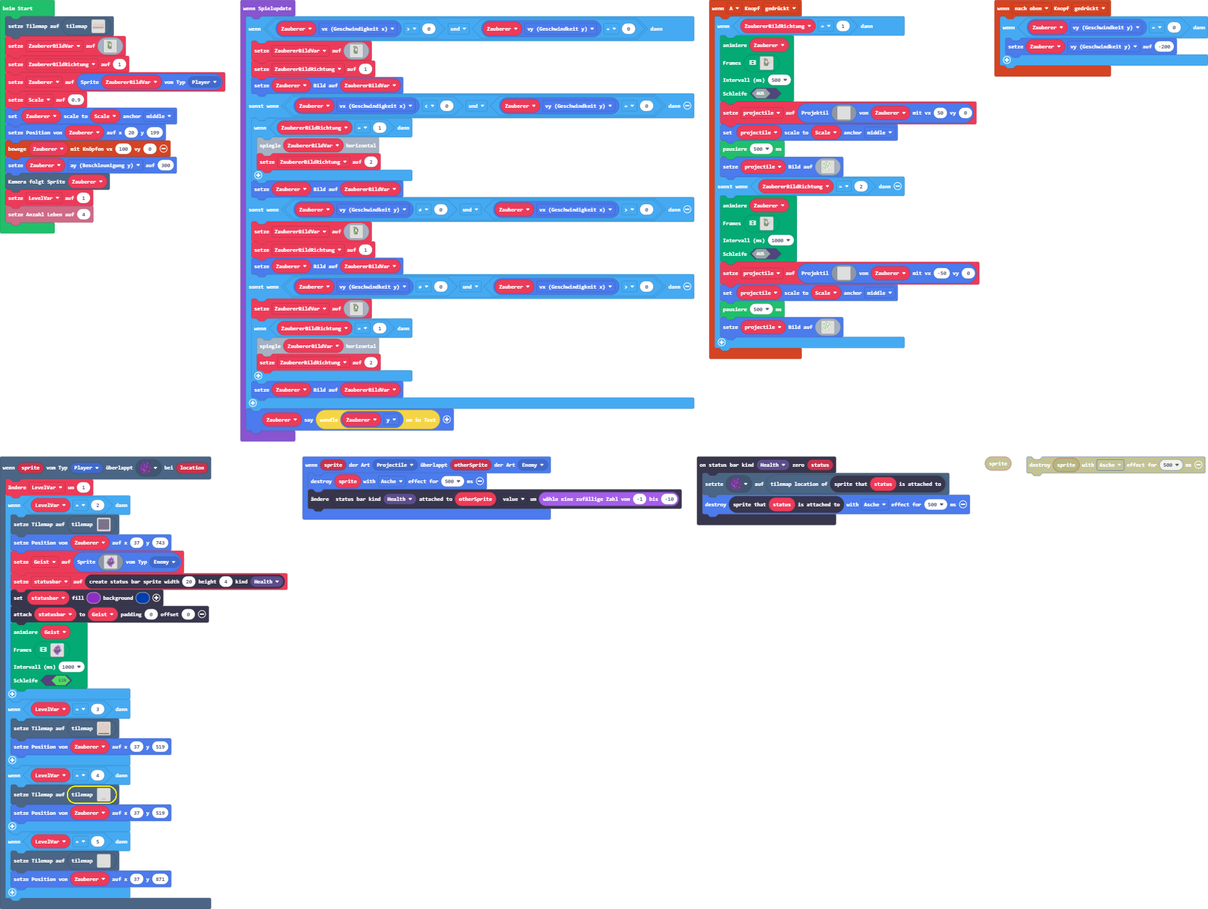
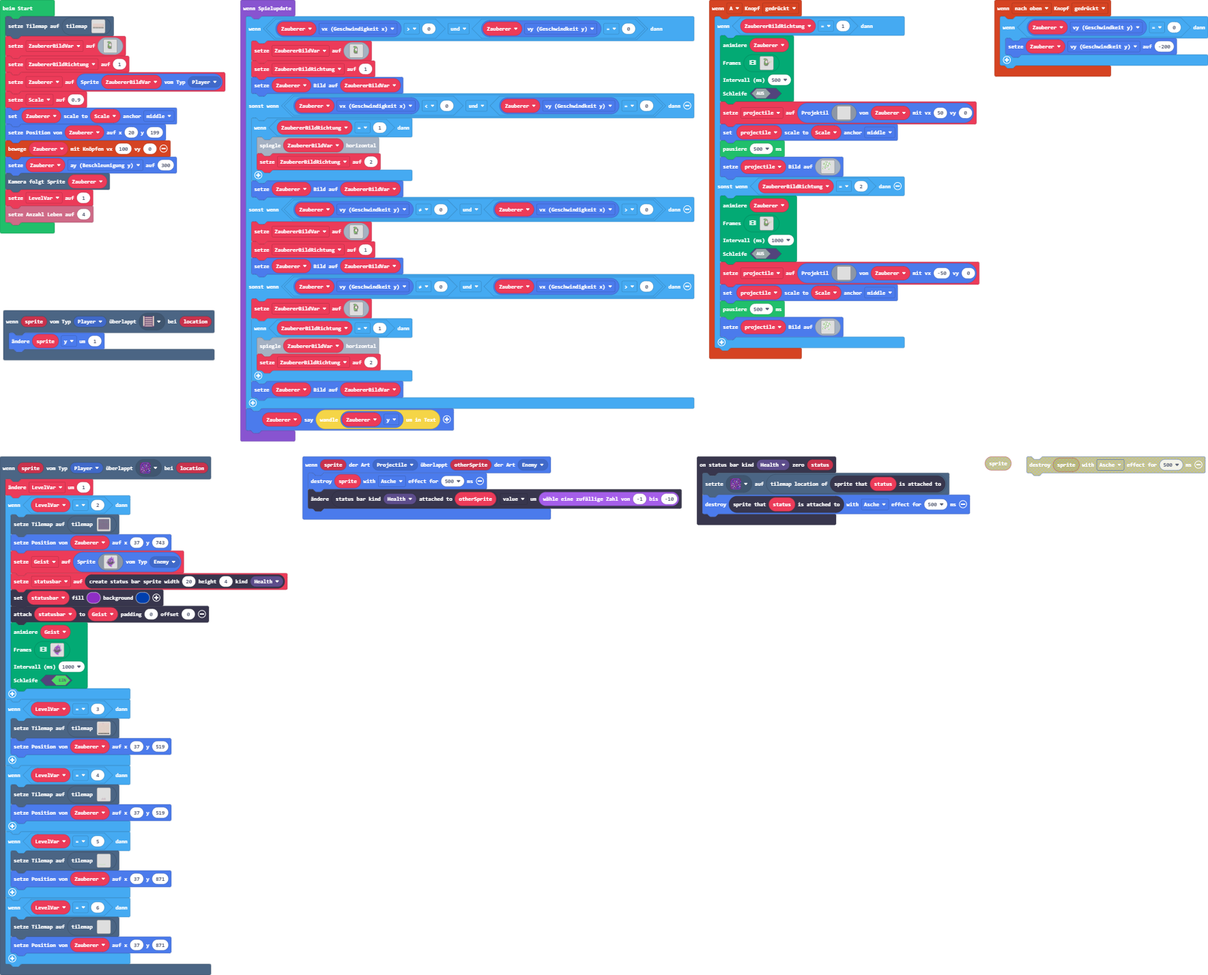
Aktualisiere main.blocks, main.ts, images.g.jres, images.g.ts, tilemap.g.jres, tilemap.g.ts

Changed region(s): [[0.0, 0.0, 1.0, 0.985], [0.8079, 0.0, 1.0, 0.0923]]

diff --git a/tilemap.g.ts b/tilemap.g.ts
@@ -6,66 +6,13 @@ namespace myTiles {
     export const tile1 = image.ofBuffer(hex``);
     //% fixedInstance jres blockIdentity=images._tile
     export const tile2 = image.ofBuffer(hex``);
+    //% fixedInstance jres blockIdentity=images._tile
+    export const tile4 = image.ofBuffer(hex``);
+    //% fixedInstance jres blockIdentity=images._tile
+    export const tile3 = image.ofBuffer(hex``);
 
     helpers._registerFactory("tilemap", function(name: string) {
         switch(helpers.stringTrim(name)) {
-            case "Level1Tilemap":
-            case "Level2Tilemap1":return tiles.createTilemap(hex`24001000010101010101010101010101010101010101010101010101010101010101010101010101010101010101010101010101010101010101010101010101010101010101010101010101010101010101010101010101010101010101010101010101010101010101010101010101010101010101010101010101010101010101010101010101010101010101010101010101010101010101010101010101010101010101010101010101010101010101010101050106010101010101010101040101010505050401010101010101010101010101010101050106010101010101010101010101010101010101010101010501050101010404040404040404010101010101010101010101010101010101010101010101010101010101010101010101010101010101010101010101010101010101010101010101010101010101010101010101010101010404010101010101010101010101010101010101010101010101010101010101010101010104040101010101010101010101010101010101010101010101010101010101010101010101010101010101010101010101010101010101010101010101010101010101030303030303030303030303030303030303030303030303030303030303030303030301020202020202020202020202020202020202020202020202020202020202020202020201010101010101010101010101010101010101010101010101010101010101010101010101010101010101010101010101010101010101010101010101010101010101010101010101`, img`
-....................................
-....................................
-....................................
-....................................
-.................................2..
-.........2...2222................2..
-......................2.2...2....222
-....................................
-....................................
-....22..............................
-.....22.............................
-....................................
-....................................
-22222222222222222222222222222222222.
-....................................
-....................................
-`, [myTiles.transparency16,sprites.castle.tilePath5,sprites.builtin.forestTiles10,sprites.castle.tilePath8,sprites.castle.tilePath2,myTiles.tile1,myTiles.tile2], TileScale.Sixteen);
-            case "Level2Tilemap":
-            case "Level2":return tiles.createTilemap(hex`2300230001010101010101010101010101010101010101010101010101010101010101010101010101010101010101010101010101010301010101010101010101010101010101010101010101010101010101010101010101030101010101010101010101010101010101010101010101010101010101010101010101010101010101010101010101010101010101010101010101010101010101010101010101010101010101010101010101010101010101010101010101010101010101010101010101010101010101010101010101010101010101010101010101010101010101010101010101010101010101010101010101010101010101010101010101010101010101010101010101010101010101010101010101010101010101010101010101010101010101010101010101010101010101010101010101010102020202010101020202020202020202020202020202020202020202020202020202020101010101010101010101010101010101010101010101010101010101010101010101010101010101010101010101010101010101010101010101010101010101010101010101010101010101010101010101010101010101010101010101010101010101010101010202020202020202020202020201010101010202020202020202020202020202020202010101010101010101010101010101010202010101010101010101010101010101010101010101010101010101010101010102010101010101010101010101010101010101010101010101010101010101010101010101010101010101010101010101010101010101010101010101010101010101010101010101010101010101010101010101010101010102020202020202020202020202010101010202020202020202020202020202020202020101010101010101010101010102010101010101010101010101010101010101010101010101010101010101010101010101010101010101010101010101010101010101010101010101010101010101010101010101010101010101010101010101010101010101010202020202020202020202020202020202010101010101010101010101010101010101010101010101010101010101010101010102020202020202020202010101010202020201010101010101010101010101010101010101010101010101010102020101010101010101010101010101010101010101010101010101010101010101010101010101010101010101010101010101010101010101010101010101010101010101010101010101010101010101010101010101010101010101010101010101010101010101010101010101010101010101010101010101010101010101010101010101010101020202020202020202010101010101010101010202020202020202020202020202020201010101010101010101010102020202020202010101010101010101010101010101010101010101010101010101010101010101010101010101010101010101010101010101010101010101010101040404040404040404040404040404040404040404040404040404040404040404040405050505050505050505050505050505050505050505050505050505050505050505050505050505050505050505050505050505050505050505050505050505050505050505`, img`
-...................................
-...................................
-...................................
-222222222222.....22...222.........2
-...................................
-...........................22222...
-...................................
-...................................
-...................................
-2222...2222222222222222222222222222
-...................................
-...................................
-...................................
-2222222222222.....22222222222222222
-................22.................
-...............2...................
-...................................
-...................................
-2222222222222....222222222222222222
-.............2.....................
-...................................
-...................................
-22222222222222222..................
-.................2222222222....2222
-...........................22......
-...................................
-...................................
-...................................
-..........................222222222
-..........2222222222222222.........
-...2222222.........................
-...................................
-...................................
-22222222222222222222222222222222222
-22222222222222222222222222222222222
-`, [myTiles.transparency16,sprites.castle.tilePath5,sprites.castle.tilePath2,myTiles.tile2,sprites.castle.tilePath8,sprites.builtin.forestTiles6], TileScale.Sixteen);
             case "Level3Tilemap":
[1 lines of base64/hex data omitted]
 ......................................................................
@@ -129,25 +76,6 @@ namespace myTiles {
 ......................................................................
 ......................................................................
 `, [myTiles.transparency16,sprites.castle.tileGrass2], TileScale.Sixteen);
-            case "Level1":
-            case "Level1":return tiles.createTilemap(hex`1000100000000000000000000000000000000000000000000000000000000000000000000000000000000000000000000000000000000000000000000000000000000000000000000000000000000000000000000000000000000000000000000000000000000000000000000000000000000000000000000000000000000000000000000000000000000000000000000000000000000000000000000000000000000000000000000000000000000000000000000000000000000000000000000000000000000000000000000000000000000000000000000000000000000000000000000000000000000000000000000000000000000000000000000000000000000000`, img`
-. . . . . . . . . . . . . . . . 
-. . . . . . . . . . . . . . . . 
-. . . . . . . . . . . . . . . . 
-. . . . . . . . . . . . . . . . 
-. . . . . . . . . . . . . . . . 
-. . . . . . . . . . . . . . . . 
-. . . . . . . . . . . . . . . . 
-. . . . . . . . . . . . . . . . 
-. . . . . . . . . . . . . . . . 
-. . . . . . . . . . . . . . . . 
-. . . . . . . . . . . . . . . . 
-. . . . . . . . . . . . . . . . 
-. . . . . . . . . . . . . . . . 
-. . . . . . . . . . . . . . . . 
-. . . . . . . . . . . . . . . . 
-. . . . . . . . . . . . . . . . 
-`, [myTiles.transparency16], TileScale.Sixteen);
             case "Bossarena1Tilemap":
             case "Bossarena1Tilemap1":return tiles.createTilemap(hex`3200320004070707030303030303030303030303030303030303030303030303030303070707070707070707070303070707070707060803030307070707070707070703030303030303030303030303030303030707030303030303030307070707030303030308080303030303030303030303030707070703030303030303030303030707030303030303030303030303030303030303030808030303030303030303030303030303030707070303030303030303070303030303030303030303030303030303070703080803030303030303030303030303030303030303070703030303070703030303030303030303030303030707070703030308080303030303030303030303030303030303030303030707070707030303030303030303030303070707030303030303030808070707070707070707070707070707070303030303030303030303030303030303030307070703030303030303030303080803030303030303030303030303030303030303030303030303030303030303070707070303030303030303030303030308080203030303030303030303030303030303030303030303030303030303070703030303030303030303030303030303030803030203030303030303030303030303030303030303030707070707070707070707070707070707070707070707070707080308070707070707070707070707070707070703030303030303030303030303030303030303030303030303030303030808030803030303030303030303030303030303030303030303030303030303030303030303030303030303030303030303080303080303030303030303030303030303030303030303030303030303030303030303030303030303030303030303030308030803030303030307070707070707070707070707070707070707070707070707070707070707070707070707070707080803080803030303030303030303030303030303030303030303030303030303030303030303030303030303030303030308030303070703030303030303030303030303030303030303030303030303030303030303030303030303030303030303030803030308030707030303030303030303030303030303030303030303030303030303030303030303030303030303030303080303030803030307070303030303030303070707070707070707070707070707070707070707070707070707070707070808030303080303030303070707030303030303030303030303030303030303030303030303030303030303030303030307080303030308030303030303030307070303030303030303030303030303030303030303030303030303030303030303030808030303030808030303030303030303070703030303030303030303030303030303030303030303030303030303030303080303030303080807030303030303030303030707070303030303030303030303030303030303030303030303030303030308030303030303080307070303030303030303030303070703030303030303070707070707070707070707070707070707070803030303030308030303070703030303030303030303030707070303030303030303030303030303030303030303030303080303030303030803030303030707030303030303030303030303070703030303030303030303030303030303030303030308030303030303080303030303030307070303030303030303030303030707030303030303030303030303030303030303030803030303030308030303030303030303070703030303030303030303030307070703030303030303030303030303030303080303030303030707070303030303030303030707070303030303030303030303030707030303030303030303030303030308030303030303080303070703030303030303030303070703030303030303030303030307070303030303030707070707070803030303030308030303030707030303030303030303030707030303030303030303030303070703030303030303030303080303030303030803030303030307070703030303030303030307070303030303030303030303030303030303030303030308030303030303080303030303030303030707030303030303030303070703030303030303030303030303030303030303030803030303030808030303030303030303030303030303030303030303030707030303030303030303030707070707070707080303030303080303030303030303030303030303030303030303030303030303030303030303030303030303030303030308080303030308070707070707070707070707070707070707030303030303030303030303030303030303030303030303030308030303030803030303030303030303030303030303030307070707070707070707070707070707070707030303030303030803030303080303030303030303030303030303030303030303030303030303030303030303030303030303030303030303080303030308030303030303030303030303030303030303030303030303030303030303030303030303030303030303070703080303030803030303030303030303030303030303030303030303030303030303030303030303030303030307070703030308030303080303030303030303030303030303030303030303030303030303030303030303030303030303030303030303030803030308030303030303030303030303030303030303030303030303030303030303030303030303030303030303030303080803030803030207070707070707070707070707070707070707070707070707070707070707070707070707070707070707080308080303030303030303030303030303030303030303030303030303030303030303030303030303030303030303030308080808030303030303030303030303030303030303030303030303030303030303030303030303030303030303030303030803080303030707030303030303030303030303030303030303030303030303030303030303030303030303030303030303080308030303030303030303030303030303030303030303030303030303030303030303030303030303030303030303030308030803030303030303030303030303030303030303030303030303030303030303030303030303030303030303030303030808050909090909090909090909090909090909090909090909090909090909090909090909090909090909090909090909090901010101010101010101010101010101010101010101010101010101010101010101010101010101010101010101010101010101010101010101010101010101010101010101010101010101010101010101010101010101010101010101010101010101`, img`
 2222...........................2222222222..2222222
@@ -201,25 +129,6 @@ namespace myTiles {
 22222222222222222222222222222222222222222222222222
 ..................................................
 `, [myTiles.transparency16,sprites.castle.tilePath5,sprites.dungeon.darkGroundCenter,sprites.dungeon.darkGroundNorthWest0,sprites.dungeon.greenOuterNorthWest,sprites.dungeon.greenOuterSouthEast,sprites.dungeon.greenOuterNorthEast,sprites.dungeon.greenOuterNorth0,sprites.dungeon.greenOuterWest1,sprites.dungeon.greenOuterSouth0], TileScale.Sixteen);
-            case "Level3":
-            case "Level3":return tiles.createTilemap(hex`1000100000000000000000000000000000000000000000000000000000000000000000000000000000000000000000000000000000000000000000000000000000000000000000000000000000000000000000000000000000000000000000000000000000000000000000000000000000000000000000000000000000000000000000000000000000000000000000000000000000000000000000000000000000000000000000000000000000000000000000000000000000000000000000000000000000000000000000000000000000000000000000000000000000000000000000000000000000000000000000000000000000000000000000000000000000000000`, img`
-. . . . . . . . . . . . . . . . 
-. . . . . . . . . . . . . . . . 
-. . . . . . . . . . . . . . . . 
-. . . . . . . . . . . . . . . . 
-. . . . . . . . . . . . . . . . 
-. . . . . . . . . . . . . . . . 
-. . . . . . . . . . . . . . . . 
-. . . . . . . . . . . . . . . . 
-. . . . . . . . . . . . . . . . 
-. . . . . . . . . . . . . . . . 
-. . . . . . . . . . . . . . . . 
-. . . . . . . . . . . . . . . . 
-. . . . . . . . . . . . . . . . 
-. . . . . . . . . . . . . . . . 
-. . . . . . . . . . . . . . . . 
-. . . . . . . . . . . . . . . . 
-`, [myTiles.transparency16], TileScale.Sixteen);
             case "Bossarena2Tilemap":
             case "Bossarena2Tilemap1":return tiles.createTilemap(hex`1400320000000000000000000000000000000000000000000000000000000000000000000000000000000000000000000000000000000000000000000000000000000000000000000000000000000000000000000000000000000000000000000000000000000000000000000000000000000000000000000000000000000000000000000000000000000000000000000000000000000000000000000000000000000000000000000000000000000000000000000000000000000000000000000000000000000000000000000000000000000000000000000000000000000000000000000000000000000000000000000000000000000000000000000000000000000000000000000000000000000000000000000000000000000000000000000000000000000000000000000000000000000000000000000000000000000000000000000000000000000000000000000000000000000000000000000000000000000000000000000000000000000000000000000000000000000000000000000000000000000000000000000000000000000000000000000000000000000000000000000000000000000000000000000000000000000000000000000000000000000000000000000000000000000000000000000000000000000000000000000000000000000000000000000000000000000000000000000000000000000000000000000000000000000000000000000000000000000000000000000000000000000000000000000000000000000000000000000000000000000000000000000000000000000000000000000000000000000000000000000000000000000000000000000000000000000000000000000000000000000000000000000000000000000000000000000000000000000000000000000000000000000000000000000000000000000000000000000000000000000000000000000000000000000000000000000000000000000000000000000000000000000000000000000000000000000000000000000000000000000000000000000000000000000000000000000000000000000000000000000000000000000000000000000000000707070707070707070000000000000500000000070000000000000007000000000000050000000000000000000000000000000000000005000000000000000005000000000000000000000000000000000006000500060000000000000000000000000000060600050006060006060606060606060606060606000005000006060000000000000000000000000000000500000000000000000000000000000000000004010100000001010201010101020102010101010101040101010104010101010101010101010301010101010101`, img`
 ....................
@@ -273,6 +182,101 @@ namespace myTiles {
 22222222222222222222
 22222222222222222222
 `, [myTiles.transparency16,sprites.dungeon.floorLight0,sprites.dungeon.floorLight1,sprites.dungeon.floorLight5,sprites.dungeon.floorLight4,sprites.dungeon.stairNorth,sprites.dungeon.floorDarkDiamond,sprites.dungeon.floorLight2], TileScale.Sixteen);
+            case "Level2Tilemap":
+            case "Level2":return tiles.createTilemap(hex`2300230001010101010101010101010101010101010101010101010101010101010101010101010101010101010101010101010101010301010101010101010101010101010101010101010101010101010101010101010101030101010101010101010101010101010101010101010101010101010101010101010101010101010101010101010101010101010101010101010101010101010101010101010101010101010101010101010101010101010101010101010101010101010101010101010101010101010101010101010101010101010101010101010101010101010101010101010101010101010101010101010101010101010101010101010101010101010101010101010101010101010101010101010101010101010101010101010101010101010101010101010101010101010101010101010101010102020202010101020202020202020202020202020202020202020202020202020202020101010101010101010101010101010101010101010101010101010101010101010101010101010101010101010101010101010101010101010101010101010101010101010101010101010101010101010101010101010101010101010101010101010101010101010202020202020202020202020201010101010202020202020202020202020202020202010101010101010101010101010101010202010101010101010101010101010101010101010101010101010101010101010102010101010101010101010101010101010101010101010101010101010101010101010101010101010101010101010101010101010101010101010101010101010101010101010101010101010101010101010101010101010102020202020202020202020202010101010202020202020202020202020202020202020101010101010101010101010102010101010101010101010101010101010101010101010101010101010101010101010101010101010101010101010101010101010101010101010101010101010101010101010101010101010101010101010101010101010101010202020202020202020202020202020202010101010101010101010101010101010101010101010101010101010101010101010102020202020202020202010101010202020201010101010101010101010101010101010101010101010101010102020101010101010101010101010101010101010101010101010101010101010101010101010101010101010101010101010101010101010101010101010101010101010101010101010101010101010101010101010101010101010101010101010101010101010101010101010101010101010101010101010101010101010101010101010101010101020202020202020202010101010101010101010202020202020202020202020202020201010101010101010101010102020202020202010101010101010101010101010101010101010101010101010101010101010101010101010101010101010101010101010101010101010101010101040404040404040404040404040404040404040404040404040404040404040404040405050505050505050505050505050505050505050505050505050505050505050505050505050505050505050505050505050505050505050505050505050505050505050505`, img`
+...................................
+...................................
+...................................
+222222222222.....22...222.........2
+...................................
+...........................22222...
+...................................
+...................................
+...................................
+2222...2222222222222222222222222222
+...................................
+...................................
+...................................
+2222222222222.....22222222222222222
+................22.................
+...............2...................
+...................................
+...................................
+2222222222222....222222222222222222
+.............2.....................
+...................................
+...................................
+22222222222222222..................
+.................2222222222....2222
+...........................22......
+...................................
+...................................
+...................................
+..........................222222222
+..........2222222222222222.........
+...2222222.........................
+...................................
+...................................
+22222222222222222222222222222222222
+22222222222222222222222222222222222
+`, [myTiles.transparency16,sprites.castle.tilePath5,sprites.castle.tilePath2,myTiles.tile2,sprites.castle.tilePath8,sprites.builtin.forestTiles6], TileScale.Sixteen);
+            case "Level1Tilemap":
+            case "Level2Tilemap1":return tiles.createTilemap(hex`24001000010101010101010101010101010101010101010101010101010101010101010101010101010101010101010101010101010101010101010101010101010101010101010101010101010101010101010101010101010101010101010101010101010101010101010101010101010101010101010101010101010101010101010101010101010101010101010101010101010101010101010101010101010101010101010101010101010101010101010101050106010101010101010101040101010505050401010101010101010101010101010101050106010101010101010101010101010101010101010101010501050101010404040404040404010101010101010101010101010101010101010101010101010101010101010101010101010101010101010101010101010101010101010101010101010101010101010101010101010101010404010101010101010101010101010101010101010101010101010101010101010101010101040101010101010101010101010101010101010101010101010101010101010101010101010101010101010101010101010101010101010101010101010101010101030303030303030303030303030303030303030303030303030303030303030303030303020202020202020202020202020202020202020202020202020202020202020202020202000000000000000000000000000000000000000000000000000000000000000000000000000000000000000000000000000000000000000000000000000000000000000000000000`, img`
+....................................
+....................................
+....................................
+....................................
+.................................2..
+.........2...2222................2..
+......................2.2...2....222
+....................................
+....................................
+....22..............................
+.....22.............................
+....................................
+....................................
+222222222222222222222222222222222222
+....................................
+....................................
+`, [myTiles.transparency16,sprites.castle.tilePath5,sprites.builtin.forestTiles10,sprites.castle.tilePath8,sprites.castle.tilePath2,myTiles.tile1,myTiles.tile2], TileScale.Sixteen);
+            case "Level1":
+            case "Level1":return tiles.createTilemap(hex`1000100000000000000000000000000000000000000000000000000000000000000000000000000000000000000000000000000000000000000000000000000000000000000000000000000000000000000000000000000000000000000000000000000000000000000000000000000000000000000000000000000000000000000000000000000000000000000000000000000000000000000000000000000000000000000000000000000000000000000000000000000000000000000000000000000000000000000000000000000000000000000000000000000000000000000000000000000000000000000000000000000000000000000000000000000000000000`, img`
+. . . . . . . . . . . . . . . . 
+. . . . . . . . . . . . . . . . 
+. . . . . . . . . . . . . . . . 
+. . . . . . . . . . . . . . . . 
+. . . . . . . . . . . . . . . . 
+. . . . . . . . . . . . . . . . 
+. . . . . . . . . . . . . . . . 
+. . . . . . . . . . . . . . . . 
+. . . . . . . . . . . . . . . . 
+. . . . . . . . . . . . . . . . 
+. . . . . . . . . . . . . . . . 
+. . . . . . . . . . . . . . . . 
+. . . . . . . . . . . . . . . . 
+. . . . . . . . . . . . . . . . 
+. . . . . . . . . . . . . . . . 
+. . . . . . . . . . . . . . . . 
+`, [myTiles.transparency16], TileScale.Sixteen);
+            case "Bossarena3Tilemap":
+            case "Bossarena3Tilemap1":return tiles.createTilemap(hex`1000100000000000000000000000000000000000000000000000000000000000000000000000000000000000000000000000000000000000000000000000000000000000000000000000000000000000000000000000000000000000000000000000000000000000000000000000000000000000000000000000000000000000000000000000000000000000000000000000000000000000000000000000000000000000000000000000000000000000000000000000000000000000000000000000000000000000000000000000000000000000000000000000000000000000000000000000000000000000000000000000000000000000000000000000000000000000`, img`
+. . . . . . . . . . . . . . . . 
+. . . . . . . . . . . . . . . . 
+. . . . . . . . . . . . . . . . 
+. . . . . . . . . . . . . . . . 
+. . . . . . . . . . . . . . . . 
+. . . . . . . . . . . . . . . . 
+. . . . . . . . . . . . . . . . 
+. . . . . . . . . . . . . . . . 
+. . . . . . . . . . . . . . . . 
+. . . . . . . . . . . . . . . . 
+. . . . . . . . . . . . . . . . 
+. . . . . . . . . . . . . . . . 
+. . . . . . . . . . . . . . . . 
+. . . . . . . . . . . . . . . . 
+. . . . . . . . . . . . . . . . 
+. . . . . . . . . . . . . . . . 
+`, [myTiles.transparency16], TileScale.Sixteen);
         }
         return null;
     })
@@ -284,6 +288,10 @@ namespace myTiles {
             case "tile1":return tile1;
             case "PortalTile":
             case "tile2":return tile2;
+            case "myTile0":
+            case "tile4":return tile4;
+            case "SpukballGeistAttackeBild":
+            case "tile3":return tile3;
         }
         return null;
     })

diff --git a/images.g.ts b/images.g.ts
@@ -200,6 +200,59 @@ namespace myImages {
 ..................................................
 ..................................................
 `;
+            case "image5":
+            case "meinBild":return img`
+..................................................
+..................................................
+..................................................
+............4.....................................
+............77......ffffffff......................
+............77......f777777f......................
+............77......f777777f......................
+............77....ff77777777ff....................
+............77...f777777777777f...................
+............77...f777777777777f...................
+............777.f77777777777777f..................
+............777f7777777777777777f.................
+............77777777777777777777f.................
+............77777777777777777777f.................
+............77777777777777777777f.................
+.............7777777777777777777f.................
+.............7777777777777777777f.................
+...............f7777777777777777f.................
+...............f7777777777777777f.................
+...............f7777777777777777f.................
+...............f7777777777777777f.................
+...............f7777777777777777f.................
+...............f7777777777777777f.................
+...............f7777777777777777f.................
+...............f7777777777777777f.................
+...............f7777777777777777f.................
+................f77777777777777f..................
+................f77777777777777f..................
+................f77777777777777f..................
+.................f777777777777f...................
+.................f777777777777f...................
+.................f777777777777f...................
+.................f777777777777f...................
+.................f777777777777f...................
+.................f777777777777f...................
+...................fffffffffff....................
+...................fbbf...fbbf....................
+...................fbbf...fbbf....................
+...................ffff...ffff....................
+..................................................
+..................................................
+..................................................
+..................................................
+..................................................
+..................................................
+..................................................
+..................................................
+..................................................
+..................................................
+..................................................
+`;
         }
         return null;
     })
@@ -670,6 +723,25 @@ namespace myImages {
 ..................................................
 ..................................................
 ..................................................
+`];
+            case "myAnim":
+            case "anim3":return [img`
+. . . . . . . . . . . . . . . . 
+. . . . . . . . . . . . . . . . 
+. . . . . . . . . . . . . . . . 
+. . . . . . . . . . . . . . . . 
+. . . . . . . . . . . . . . . . 
+. . . . . . . . . . . . . . . . 
+. . . . . . . . . . . . . . . . 
+. . . . . . . . . . . . . . . . 
+. . . . . . . . . . . . . . . . 
+. . . . . . . . . . . . . . . . 
+. . . . . . . . . . . . . . . . 
+. . . . . . . . . . . . . . . . 
+. . . . . . . . . . . . . . . . 
+. . . . . . . . . . . . . . . . 
+. . . . . . . . . . . . . . . . 
+. . . . . . . . . . . . . . . . 
 `];
         }
         return null;

diff --git a/main.ts b/main.ts
@@ -1,3 +1,6 @@
+scene.onOverlapTile(SpriteKind.Player, sprites.dungeon.stairNorth, function (sprite, location) {
+    sprite.y += 1
+})
 controller.A.onEvent(ControllerButtonEvent.Pressed, function () {
     if (ZaubererBildRichtung == 1) {
         animation.runImageAnimation(
@@ -54,6 +57,10 @@ scene.onOverlapTile(SpriteKind.Player, assets.tile`PortalTile`, function (sprite
     }
     if (LevelVar == 5) {
         tiles.setCurrentTilemap(tilemap`Level3Tilemap`)
+        Zauberer.setPosition(37, 871)
+    }
+    if (LevelVar == 6) {
+        tiles.setCurrentTilemap(tilemap`Bossarena3Tilemap`)
         Zauberer.setPosition(37, 871)
     }
 })
